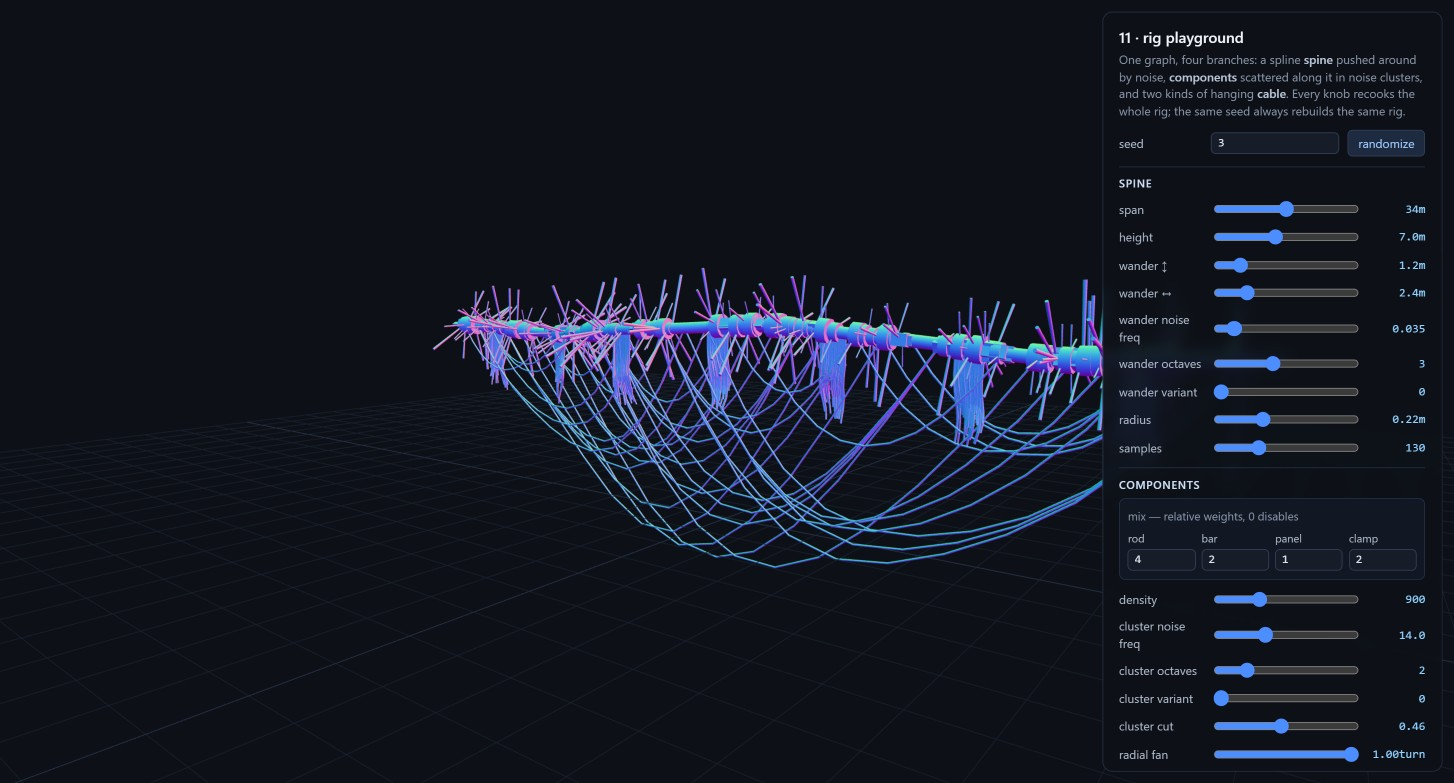
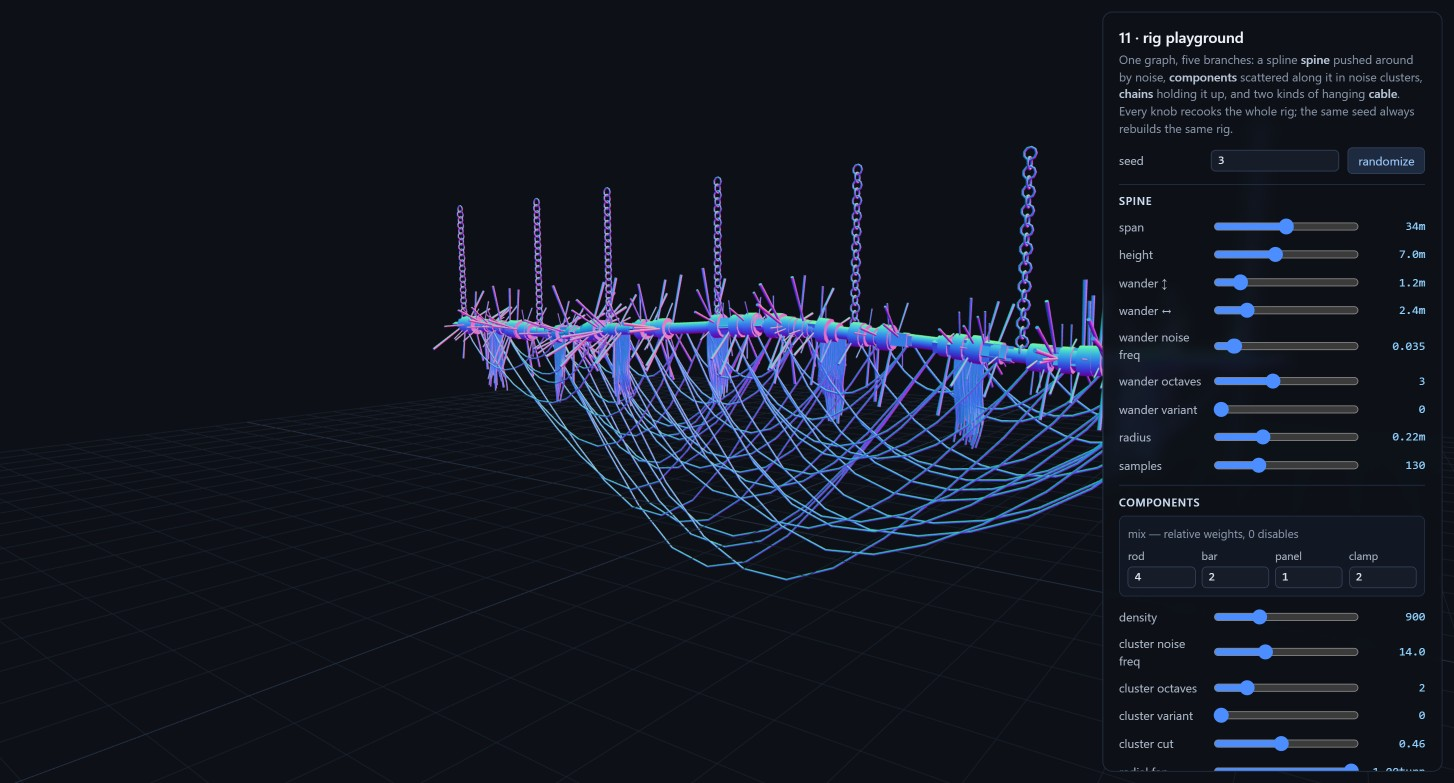
phase(53): chains — the rig hangs from something
Both references suspend the piece from a ceiling on chains, and the rig
floated. Seven chains now rise from anchors on the spine to a ceiling
height, and every one of them is built from nodes that already existed.

A chain link is a ring whose plane CONTAINS the chain direction, and
consecutive links sit a quarter turn apart. Both fall out of AIMING the
torus rather than rolling it: orientAlongVector puts local +Z — a
torus's axis — onto a HORIZONTAL direction, which leaves the ring's
plane containing the vertical chain, and alternating that direction
between +X and +Z gives the quarter turn. One geometry, one draw call,
no second asset to keep in step. The alternation is index parity written
without a modulo combinator: i - 2 * floor(i / 2).

Two details that would otherwise have been fudged:

- Chains reach the SAME ceiling from DIFFERENT heights, because the
  spine wanders under them. The stretch is per anchor, read from the
  anchor's own Y — copyToPoints multiplies the target's scale into the
  source positions and the strand is one unit long, so scale.y is
  exactly the gap to span.
- Each link is sized by its own segment's length, read back out of the
  scale pathSegments just wrote. A fixed link size would gap on the long
  chains and pile up on the short ones; this stays linked at any span,
  and setAttribute already guards reading the column it writes.

Measured: 7 chains of 22 links spanning Y 7.05 to 12.88 against a
[…]

diff --git a/docs/manual.html b/docs/manual.html
@@ -778,12 +778,13 @@ graph.<span class="n">output</span>(spawn, <span class="s">"instances"</span>, <
     <h3 id="ex-11">11 · rig playground — the curve vocabulary, end to end</h3>
     <figure>
       <img src="manual-assets/11-rig-playground.jpg" width="1454" height="783" loading="lazy" decoding="async"
-           alt="The rig-playground demo. On the left, over a faint ground grid, a long horizontal armature: a solid spine tube running left to right, bristling with hundreds of thin rods that point outward in every direction around it, collars and boxy fixtures threaded along it, dense bundles of cables dropping straight down at intervals, and a scatter of long cables swagging beneath the whole span. Everything is shaded by surface direction, so the geometry reads in bands of blue, green, violet and pink rather than by any light. On the right, a dark control panel headed 11 · rig playground with a seed of 3 and a randomize button, a SPINE group of nine sliders reading span 34m, height 7.0m, wander up-down 1.2m, wander sideways 2.4m, wander noise freq 0.035, wander octaves 3, wander variant 0, radius 0.22m and samples 130, then a COMPONENTS group whose mix grid holds relative weights rod 4, bar 2, panel 1 and clamp 2 above sliders for density 900, cluster noise freq 14.0, cluster octaves 2, cluster variant 0, cluster cut 0.46 and radial fan 1.00 turn." />
-      <figcaption><b>11 · rig playground</b> — one graph, four branches: a spline spine, component parts scattered along it in noise clusters, cables gathered into bundles, and sagging chords between anchors. Unlit on purpose: normal shading reads volume and overlap better than any lit render when the geometry is what you are judging.</figcaption>
+           alt="The rig-playground demo. On the left, over a faint ground grid, a long horizontal armature hanging from seven vertical chains whose interlocking links alternate a quarter turn as they descend: a solid spine tube bristling with hundreds of thin rods pointing outward in every direction, collars and boxy fixtures threaded along it, dense bundles of cables dropping straight down at intervals, and a scatter of long cables swagging beneath the whole span. Everything is shaded by surface direction, so the geometry reads in bands of blue, green, violet and pink rather than by any light. On the right, a dark control panel headed 11 · rig playground with a seed of 3 and a randomize button, a SPINE group of nine sliders reading span 34m, height 7.0m, wander up-down 1.2m, wander sideways 2.4m, wander noise freq 0.035, wander octaves 3, wander variant 0, radius 0.22m and samples 130, then a COMPONENTS group whose mix grid holds relative weights rod 4, bar 2, panel 1 and clamp 2 above sliders for density 900, cluster noise freq 14.0, cluster octaves 2, cluster variant 0, cluster cut 0.46 and radial fan 1.00 turn." />
+      <figcaption><b>11 · rig playground</b> — one graph, five branches: a spline spine, component parts scattered along it in noise clusters, chains holding it up, cables gathered into bundles, and sagging chords between anchors. Unlit on purpose: normal shading reads volume and overlap better than any lit render when the geometry is what you are judging.</figcaption>
     </figure>
     <p>This demo exists because of something the library could not do. There is no sweep, extrude, loft or revolve anywhere in <code>src/</code>, <code>meshPrimitive</code> builds planes and boxes, and <code>toLineGeometry</code> emits a line one pixel wide — so a path could be generated and never drawn. <code>pathSegments</code> closes that without inventing a swept-surface representation: one instance point per polyline segment, at the midpoint, with <code>rot</code> turning the chosen axis onto the segment and <code>scale</code> carrying its length. A unit cylinder lands exactly on each segment, so the spine and every cable in the picture cost one draw call each.</p>
     <p>The rods point outward rather than all one way because of the second piece. <code>orientAlongVector</code> fixes roll with an <code>up</code> hint, and a <em>constant</em> up cannot follow a curve that turns over — as the tangent passes through it the roll flips a half turn and everything placed along the curve snaps round. <code>writeCurveFrame</code> carries a normal <em>along</em> the curve instead, transported point to point by double reflection, and <code>up</code> is field-capable so <code>cos(a) · curveNormal + sin(a) · curveBinormal</code> can be fed straight back in. The <code>radial fan</code> slider is that angle's range: at 0 every component lines up on one side, at a full turn they cover the circle.</p>
     <p>Which shape each point spawns comes from <code>spawnInstances</code>' <code>assetAttr</code>, written by a string <code>setAttribute</code> whose <code>values</code> list is weighted <em>by repetition</em> — which is why the mix grid takes integers. The cable bundles are <code>pathPointAt</code>: each anchor slides a fraction of the way toward the centre of its bin, expressed as <code>lerp(curveU, centre, amount)</code>, so nothing is removed and the cable count is exactly what the slider says. The swags are <code>connectPoints</code> chords sagged by a parabola over the carried <code>edgeLength</code>, then thinned by length and by a per-chord random living on the primitive domain — thinning by length alone leaves a lattice, because every surviving pair still gets hung.</p>
+    <p>The chains are the same three ideas turned once more. A chain link is a ring whose plane <em>contains</em> the chain, and consecutive links sit a quarter turn apart — both fall out of AIMING the torus rather than rolling it, since <code>orientAlongVector</code> puts its axis onto a horizontal direction and alternating that direction between two horizontal axes gives the quarter turn. Each link is scaled by its own segment's length, read back out of the <code>scale</code> that <code>pathSegments</code> just wrote, so chains spanning different gaps stay properly linked instead of gapping on the long ones and piling up on the short.</p>
     <p class="demo-links">
       <span class="chip">nodes: pathSegments · writeCurveFrame · pathPointAt · orientAlongVector · connectPoints</span>
       <span class="chip">primitives: place/radial-on-curve · transform/gather-on-path · write/curve-frame</span>

diff --git a/examples/11-rig-playground/rig.ts b/examples/11-rig-playground/rig.ts
@@ -1,6 +1,7 @@
 /**
- * The rig graph: a spline spine, component parts scattered along it, and
- * cables hanging off it. One pcg-ts graph, four branches, four spawners.
+ * The rig graph: a spline spine, component parts scattered along it,
+ * chains holding it up and cables hanging off it. One pcg-ts graph, five
+ * branches, five spawners.
  *
  * Kept apart from main.ts so the GENERATION reads on its own — the host
  * owns the renderer and the asset shapes and has nothing to say about
@@ -21,6 +22,7 @@ import {
   Graph,
   add,
   attribute,
+  component,
   cook,
   copyToPoints,
   connectPoints,
@@ -43,6 +45,7 @@ import {
   pathSegments,
   perlinNoise,
   pointLine,
+  position,
   pointsToPath,
   randomField,
   setAttribute,
@@ -104,6 +107,14 @@ export interface RigParams {
   scatterJitter: number;
   partSize: number;
   sizeJitter: number;
+  // suspension
+  /** Chains from the ceiling down to the spine. 0 leaves it floating. */
+  chainCount: number;
+  /** Height the chains rise to, in metres. */
+  ceilingHeight: number;
+  /** Links per chain. Each link is sized to its own segment, so this
+   *  sets how fine the chain is rather than how long. */
+  chainLinks: number;
   // cables
   danglerCount: number;
   /**
@@ -160,6 +171,9 @@ export const DEFAULT_PARAMS: RigParams = {
   scatterJitter: 0.5,
   partSize: 1,
   sizeJitter: 0.45,
+  chainCount: 7,
+  ceilingHeight: 13,
+  chainLinks: 22,
   danglerCount: 200,
   danglerBundle: 0.8,
   danglerBundleFreq: 7,
@@ -378,12 +392,100 @@ export function buildRigGraph(params: RigParams): Graph {
   // needs at least 2 samples to still be a path and throws otherwise, so
   // "0 danglers" has to mean no branch, not a branch with 0 in it. The
   // output simply is not declared, and cookRig tolerates that.
+  if (params.chainCount >= 2) buildChains(graph, params, spine);
   if (params.danglerCount >= 2) buildDanglers(graph, params, spine);
   if (params.drapeCount >= 3) buildDrapes(graph, params, spine);
 
   // The spine points, for the stats line.
   graph.output(spine, "out", "spinePoints");
   return graph;
+}
+
+/**
+ * Chains from the ceiling down to the spine — what the whole rig hangs
+ * from, and the one place a per-link roll actually matters.
+ *
+ * A chain link is a ring whose plane CONTAINS the chain direction, and
+ * consecutive links sit a quarter turn apart. Both fall out of aiming
+ * the torus rather than rolling it: `orientAlongVector` puts local +Z —
+ * a torus's axis — onto a HORIZONTAL direction, which leaves the ring's
+ * plane containing the vertical chain, and alternating that direction
+ * between +X and +Z gives the quarter turn. One geometry, one draw call,
+ * no second asset to keep in step.
+ */
+function buildChains(graph: Graph, params: RigParams, spine: NodeRef): void {
+  const links = Math.max(2, Math.round(params.chainLinks));
+  // A unit strand pointing UP; the anchor's scale stretches it to reach.
+  const strand = graph.add(pointLine, {
+    count: links + 1,
+    start: [0, 0, 0],
+    end: [0, 1, 0],
+    includeEnd: true,
+  });
+  const anchors = graph.add(pathResample, {
+    mode: "count",
+    count: Math.max(2, Math.round(params.chainCount)),
+  });
+  // Each chain reaches the SAME ceiling from a different height, so the
+  // stretch is per anchor: copyToPoints multiplies the target's scale
+  // into the source positions, and the strand is one unit long, so
+  // scale.y is the gap the chain has to span. The spine wanders, so this
+  // has to be read from the anchor's own Y rather than assumed.
+  const reach = graph.add(setAttribute, {
+    name: "scale",
+    domain: "point",
+    type: "f32",
+    tupleSize: 3,
+    value: vec(1, sub(params.ceilingHeight, component(position(), 1)), 1),
+  });
+  const copies = graph.add(copyToPoints);
+  const chainId = graph.add(setAttribute, {
+    name: "chainId",
+    domain: "point",
+    type: "i32",
+    tupleSize: 1,
+    value: floor(div(index(), links + 1)),
+  });
+  const chainPath = graph.add(pointsToPath, { closed: false, groupAttr: "chainId" });
+  const segments = graph.add(pathSegments, { axis: "+y", radius: 1 });
+  // Size each link to its own segment: chains span different gaps, so a
+  // fixed link size would leave gaps on the long ones and pile up on the
+  // short. pathSegments already wrote the segment length into scale.y —
+  // reading it back is exact, and setAttribute guards the aliasing.
+  const linkSize = graph.add(setAttribute, {
+    name: "scale",
+    domain: "point",
+    type: "f32",
+    tupleSize: 3,
+    value: (() => {
+      // 1.3 so consecutive links overlap and interlock rather than
+      // meeting exactly end to end, which reads as a dotted line.
+      const s = mul(1.3, component(attribute("scale", 3), 1));
+      return vec(s, s, s);
+    })(),
+  });
+  const alternate = graph.add(orientAlongVector, {
+    // index mod 2, without a modulo combinator: i - 2 * floor(i / 2).
+    direction: (() => {
+      const i = index();
+      const parity = sub(i, mul(2, floor(div(i, 2))));
+      return vec(sub(1, parity), 0, parity);
+    })(),
+    up: attribute("tangent", 3),
+    axis: "+z",
+  });
+  const spawn = graph.add(spawnInstances, { assetId: "chainLink" });
+  graph.connect(spine, "out", anchors, "in");
+  graph.connect(anchors, "out", reach, "in");
+  graph.connect(strand, "out", copies, "source");
+  graph.connect(reach, "out", copies, "target");
+  graph.connect(copies, "out", chainId, "in");
+  graph.connect(chainId, "out", chainPath, "in");
+  graph.connect(chainPath, "out", segments, "in");
+  graph.connect(segments, "out", linkSize, "in");
+  graph.connect(linkSize, "out", alternate, "in");
+  graph.connect(alternate, "out", spawn, "in");
+  graph.output(spawn, "instances", "chains");
 }
 
 /** One vertical strand per attachment point, curled toward its free end. */
@@ -630,7 +732,7 @@ export interface RigResult {
 }
 
 /** The graph's output names that carry instances, in draw order. */
-export const RIG_GROUPS = ["spine", "parts", "danglers", "drapes"] as const;
+export const RIG_GROUPS = ["chains", "spine", "parts", "danglers", "drapes"] as const;
 export type RigGroup = (typeof RIG_GROUPS)[number];
 
 /** Cook a rig graph and collect its batches by group. */

diff --git a/docs/index.html b/docs/index.html
@@ -566,7 +566,7 @@ console.<span class="n">log</span>(result.stats);  <span class="c">// { cooked: 
       <a class="example" href="https://c4rl05.github.io/pcg-ts/examples/07-galaxy/"><img src="./thumbs/07-galaxy.jpg" width="640" height="345" loading="lazy" decoding="async" alt="A spiral galaxy of tens of thousands of coloured star points around a bright core, with a panel showing streamed star cells."><span class="meta"><b>07 · galaxy</b><span>an infinite deterministic spiral galaxy — streamed star cells, click any star to visit its planets</span></span></a>
       <a class="example" href="https://c4rl05.github.io/pcg-ts/examples/08-gpu-fields/"><img src="./thumbs/08-gpu-fields.jpg" width="640" height="345" loading="lazy" decoding="async" alt="A million-point cloud tinted blue and green, beside a panel comparing CPU, per-node GPU and fused device-resident cook times."><span class="meta"><b>08 · gpu fields</b><span>a million points through a five-node chain, cooked three ways — CPU, per-node GPU, and one fused device-resident run</span></span></a>
       <a class="example" href="https://c4rl05.github.io/pcg-ts/examples/09-gpu-world/"><img src="./thumbs/09-gpu-world.jpg" width="640" height="345" loading="lazy" decoding="async" alt="A streamed world of tall teal spires drawn from GPU-composed matrices, beside a panel reading 40 live cells, 16,800 instances drawn, 1.0 MiB of matrices held on device and 0 B uploaded."><span class="meta"><b>09 · gpu world</b><span>a streamed world whose instance matrices are composed in WGSL and drawn straight from that buffer — toggle to the CPU path and watch the readbacks appear</span></span></a>
-      <a class="example" href="https://c4rl05.github.io/pcg-ts/examples/11-rig-playground/"><img src="./thumbs/11-rig-playground.jpg" width="640" height="345" loading="lazy" decoding="async" alt="A long horizontal armature over a faint grid: a solid spine tube bristling with hundreds of thin rods pointing outward in every direction, collars and boxy fixtures along it, dense bundles of cables dropping straight down, and long cables swagging beneath the span — all shaded by surface direction rather than by any light."><span class="meta"><b>11 · rig playground</b><span>a suspended armature built live from the curve vocabulary — parts scattered and aimed radially around a spline, cables gathered into bundles and swagging between anchors</span></span></a>
+      <a class="example" href="https://c4rl05.github.io/pcg-ts/examples/11-rig-playground/"><img src="./thumbs/11-rig-playground.jpg" width="640" height="345" loading="lazy" decoding="async" alt="A long horizontal armature hanging from seven vertical chains over a faint grid: a solid spine tube bristling with hundreds of thin rods pointing outward in every direction, collars and boxy fixtures along it, dense bundles of cables dropping straight down, and long cables swagging beneath the span — all shaded by surface direction rather than by any light."><span class="meta"><b>11 · rig playground</b><span>a suspended armature built live from the curve vocabulary — hung on interlocking chains, parts scattered and aimed radially around a spline, cables gathered into bundles and swagging between anchors</span></span></a>
     </div>
   </section>
 

diff --git a/examples/11-rig-playground/main.ts b/examples/11-rig-playground/main.ts
@@ -30,6 +30,7 @@ import {
   MeshNormalMaterial,
   PerspectiveCamera,
   Scene,
+  TorusGeometry,
   WebGLRenderer,
 } from "three";
 import { OrbitControls } from "three/addons/controls/OrbitControls.js";
@@ -96,6 +97,10 @@ const GEOMETRY: Record<string, BufferGeometry> = {
   bar: new BoxGeometry(0.1, 0.17, 1.5),
   panel: new BoxGeometry(0.42, 0.3, 0.66),
   clamp: new CylinderGeometry(0.32, 0.32, 0.28, 12).rotateX(Math.PI / 2),
+  // A ring of unit DIAMETER, so scaling it by a chain segment's length
+  // makes the link span exactly that segment. Its axis is +z, which is
+  // what the chain branch aims horizontally to stand the ring upright.
+  chainLink: new TorusGeometry(0.5, 0.11, 5, 9),
 };
 
 /** Flat-mode colour per asset id — the only thing telling them apart. */
@@ -105,6 +110,7 @@ const FLAT_COLOUR: Record<string, number> = {
   bar: 0x46c0a0,
   panel: 0xd9b23c,
   clamp: 0x7a6ce0,
+  chainLink: 0xb0b8c4,
 };
 
 let shading: Shading = "normal";
@@ -138,6 +144,7 @@ let cooking = false;
 let error: string | undefined;
 let fpsText = "—";
 const visible: Record<RigGroup, boolean> = {
+  chains: true,
   spine: true,
   parts: true,
   danglers: true,

diff --git a/examples/11-rig-playground/Panel.svelte b/examples/11-rig-playground/Panel.svelte
@@ -225,9 +225,9 @@
 
 <PanelShell title="11 · rig playground" width={PANEL_WIDTH} badge={cookFlag}>
   <p class="info">
-    One graph, four branches: a spline <b>spine</b> pushed around by noise, <b>components</b>
-    scattered along it in noise clusters, and two kinds of hanging <b>cable</b>. Every knob recooks
-    the whole rig; the same seed always rebuilds the same rig.
+    One graph, five branches: a spline <b>spine</b> pushed around by noise, <b>components</b>
+    scattered along it in noise clusters, <b>chains</b> holding it up, and two kinds of hanging
+    <b>cable</b>. Every knob recooks the whole rig; the same seed always rebuilds the same rig.
   </p>
 
   <div class="row">

diff --git a/examples/11-rig-playground/view.ts b/examples/11-rig-playground/view.ts
@@ -90,6 +90,14 @@ export const SECTIONS: readonly Section[] = [
     ],
   },
   {
+    title: "suspension",
+    sliders: [
+      { key: "chainCount", label: "chains", min: 0, max: 40, step: 1 },
+      { key: "ceilingHeight", label: "ceiling", min: 4, max: 30, step: 0.5, unit: "m" },
+      { key: "chainLinks", label: "links per chain", min: 2, max: 80, step: 1 },
+    ],
+  },
+  {
     title: "cables",
     selects: [
       {
@@ -124,6 +132,7 @@ export const SECTIONS: readonly Section[] = [
 
 /** Group visibility labels, in draw order. */
 export const GROUP_LABEL: Record<RigGroup, string> = {
+  chains: "chains",
   spine: "spine",
   parts: "components",
   danglers: "danglers",

diff --git a/examples/index.html b/examples/index.html
@@ -129,7 +129,7 @@
     <a class="card" href="11-rig-playground/">
       <span class="num">11</span>
       <span class="body">
-        <span class="name">rig playground</span>
+        <span class="name">Rig playground</span>
         <div class="desc">A suspended armature built live from the curve vocabulary: component parts
           scattered in clusters along a spline and aimed radially around it, cables gathered into
           bundles, and sagging chords between anchors. Unlit on purpose — normal shading reads volume
